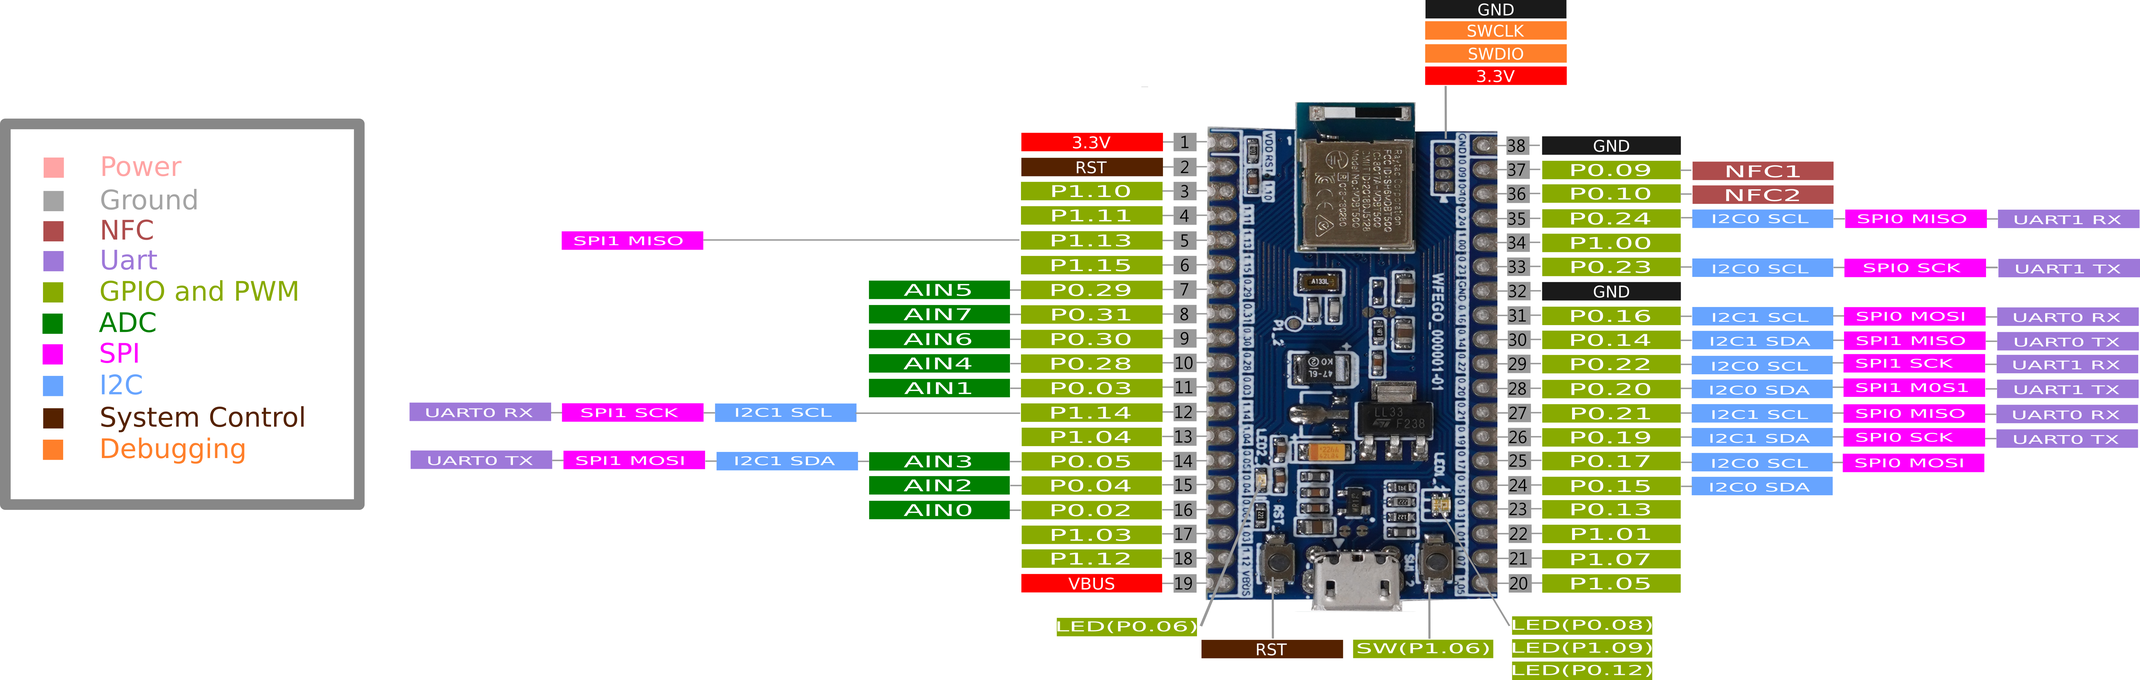
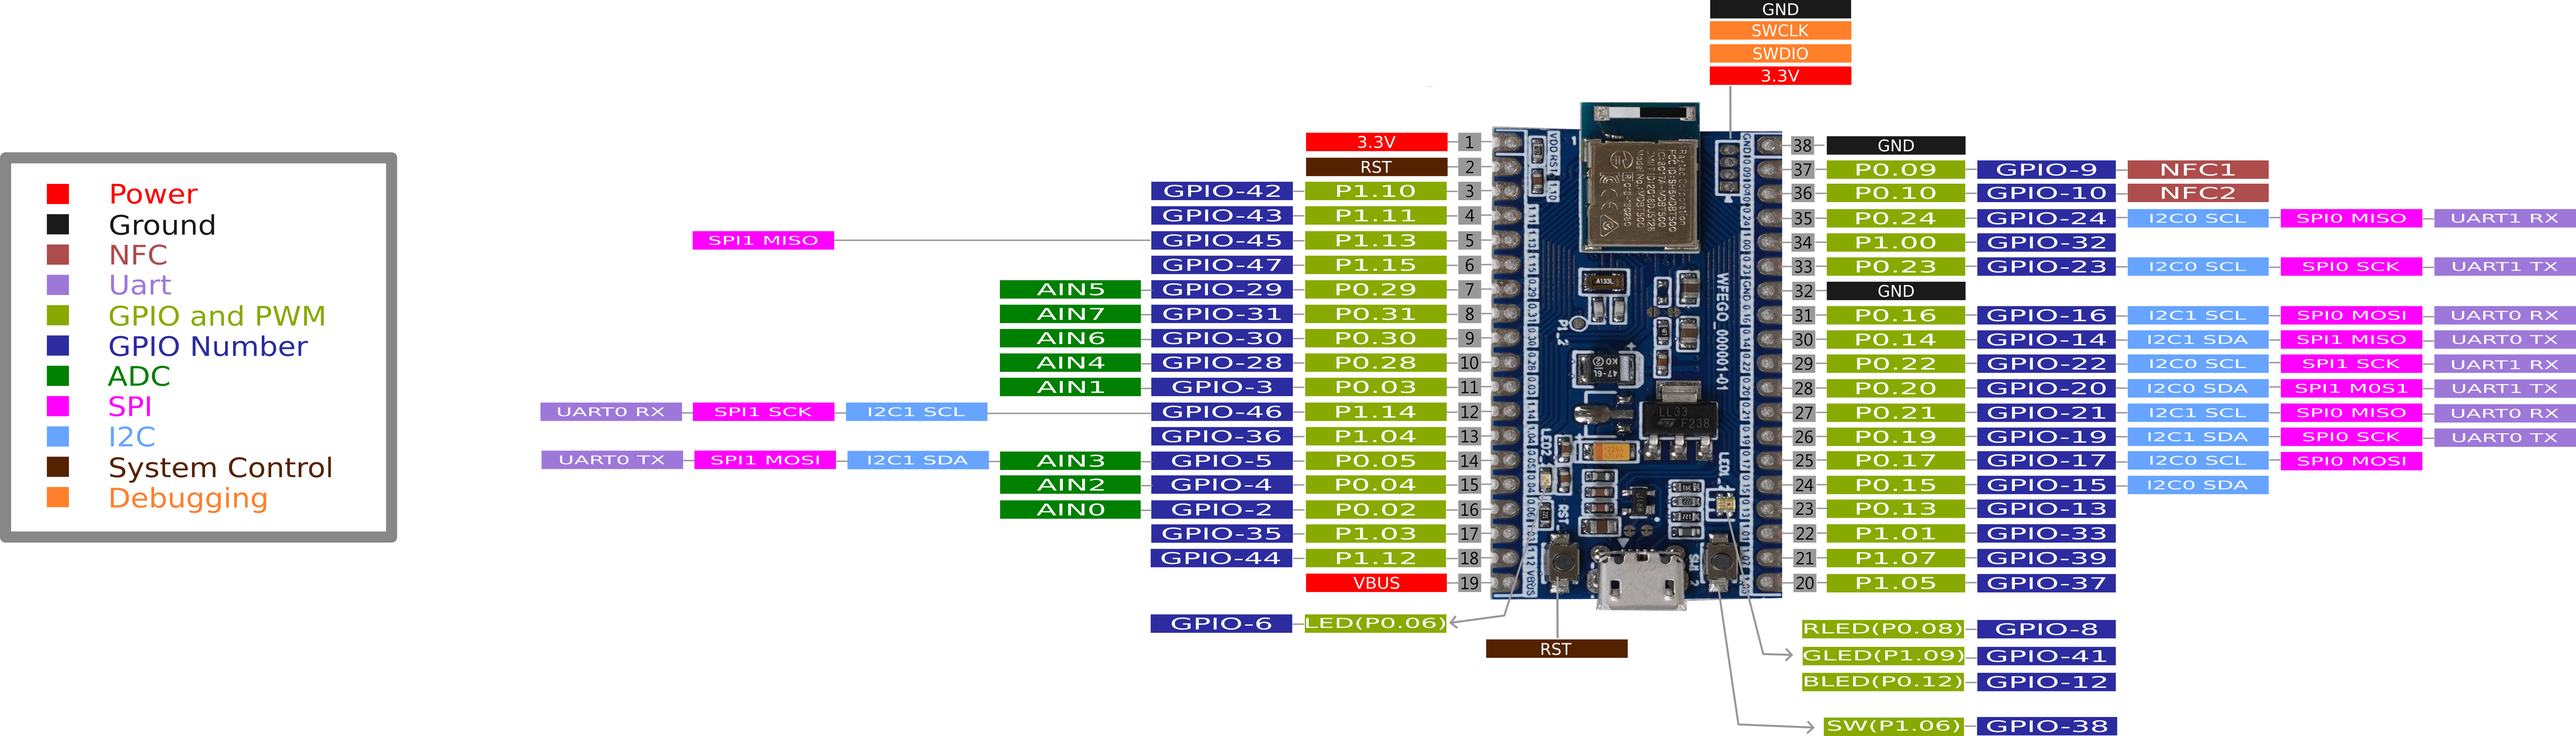
Change log: 1.新增GPIO Number. 2.加入LED資訊 & 按鈕資訊.

diff --git a/Tutorial/DevelopmentEnviromentSetup/DevelopmentEnviromentSetup.md b/Tutorial/DevelopmentEnviromentSetup/DevelopmentEnviromentSetup.md
@@ -104,26 +104,9 @@ void loop() {
 }
 ```
 
-* 首先來說明一下，為什麼`P0.08`這支I/O腳，為什麼我們是定義成`uint8_t Blink_Led = 8;`，主要是因為如下的定義.
+* 首先來說明一下，為什麼`P0.08`這支I/O腳，為什麼我們是定義成`uint8_t Blink_Led = 8;`，查閱下表，P0.08對應到GPIO為`GPIO-8`.
+![](./image/0.png)
 
-  * P0.31 = 31
-  * P1.00 = 32 
-
-```C
-const uint32_t g_ADigitalPinMap[] =
-{
-  // P0
-  0 , 1 , 2 , 3 , 4 , 5 , 6 , 7 ,
-  8 , 9 , 10, 11, 12, 13, 14, 15,
-  16, 17, 18, 19, 20, 21, 22, 23,
-  24, 25, 26, 27, 28, 29, 30, 31,
-
-  // P1
-  32, 33, 34, 35, 36, 37, 38, 39,
-  40, 41, 42, 43, 44, 45, 46, 47
-};
-
-```
 
 * 修改好Blink LED燈的腳位後，讓我們看看編譯的結果吧！！下方圖片為編譯成功的畫面.
 ![](./image/32.png)

diff --git a/README.md b/README.md
@@ -4,6 +4,20 @@
 
 ![pinout](./Board/WFEGO_000001_600DPI.png)
 
+### LED 資訊
+* SystemLED : P0.06，對應GPIO Number為 **6**.
+* RLED : P0.08，對應GPIO Number為 **8**.
+* GLED : P1.09，對應GPIO Number為 **41**.
+* BLED : P0.12，對應GPIO Number為 **12**.
+* **LED PIN LOW = Enable (LED On)**
+
+### 按鈕 資訊
+* RST : 用以重置系統/進入Bootloader Mode.
+  * Double Reset : Reset twice within 500 ms will enter DFU with UF2 and CDC support.
+* SW : P1.06，對應GPIO Number為 **38**.
+
+  
+
 ## 開發方式
 * 支援`Arduino IDE`開發.
 * 支援`Nordic SDK`開發.
